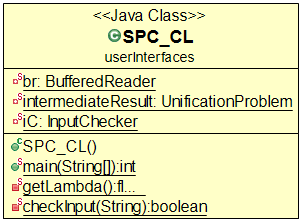
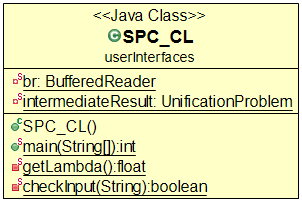
input checker partially implemented.

Changed region(s): [[0.0, 0.0, 1.0, 1.0]]

diff --git a/src/tool/SimpleInputChecker.java b/src/tool/SimpleInputChecker.java
@@ -1,0 +1,98 @@
+/**
+ * 
+ */
+package tool;
+
+/**
+ * Simple InputChecker, only checks for non-null.
+ * @author Jan-Michael Holzinger &amp; Sophie Hofmanninger
+ * @version 1.0
+ */
+public class SimpleInputChecker implements InputChecker {
+
+	/* (non-Javadoc)
+	 * @see tool.InputChecker#check(java.lang.String)
+	 */
+	@Override
+	public boolean check(String s){
+		if(s==null) return false;
+		if(!(checkParenthesis(s))) return false;
+		if(!(checkArguments(s))) return false;
+
+
+		return true;
+
+
+
+	}
+
+
+
+	/**
+	 * Checks if the number of opening and closing parenthesis
+	 * is the same for each side of the equation.
+	 * @param s the String to check
+	 * @return {@code true} if the String passes this check.
+	 */
+	private boolean checkParenthesis(String s) {
+		String[] sub = s.split("=");
+		for(int i=0;i<sub.length;i++) {
+			if(sub[i].chars().filter(ch -> ch == '(').count()!=
+					sub[i].chars().filter(ch -> ch == ')').count())
+				return false;
+		}
+		return true;
+	}
+
+	/**
+	 * Checks if there is no situation like "(," or ",)", i.e.
+	 * that no arguments are missing.
+	 * @param s the String to check
+	 * @return {@code true} if the String passes this check.
+	 */
+	private boolean checkArguments(String s) {
+		while (s.contains("(")||s.contains(",")) {
+			//both occur, "(" first;
+			if(s.contains("(")&&s.contains(",")&&s.indexOf("(")<s.indexOf(",")) {
+				s=s.substring(s.indexOf("("));
+				// Opening parenthesis at the end.
+				if(s.length()==1) return false;
+				// (,
+				if(s.substring(1,2).equals(","))
+					return false;
+				s=s.substring(1);
+				continue;
+			}
+			//both occur, "," first;
+			if(s.contains("(")&&s.contains(",")&&s.indexOf("(")>s.indexOf(",")) {
+				s=s.substring(s.indexOf(","));
+
+				// ,)
+				if(s.substring(1,2).equals(")")||
+						s.substring(1,2).equals(","))
+					return false;
+				s=s.substring(1);
+				continue;
+			}
+			// "(" occurs;
+			if(s.contains("(")&&!s.contains(",")) {
+				s=s.substring(s.indexOf("("));
+				// Opening parenthesis at the end.
+				if(s.length()==1) return false;
+				s=s.substring(1);
+				continue;
+			}
+			// "," occurs;
+			if(!s.contains("(")&&s.contains(",")) {
+				s=s.substring(s.indexOf(","));
+				if(s.substring(1,2).equals(")")||
+						s.substring(1,2).equals(","))
+					return false;
+				s=s.substring(1);
+				continue;
+			}
+
+		}
+		return true;
+	}
+}

diff --git a/src/tool/SimpleInputCheckerTest.java b/src/tool/SimpleInputCheckerTest.java
@@ -1,0 +1,88 @@
+/**
+ * 
+ */
+package tool;
+
+import static org.junit.jupiter.api.Assertions.*;
+
+import org.junit.jupiter.api.AfterEach;
+import org.junit.jupiter.api.BeforeEach;
+import org.junit.jupiter.api.Test;
+
+/**
+ * JUnit tests for SimpleInputChecker.
+ * @author Jan-Michael Holzinger &amp; Sophie Hofmanninger
+ * @version 1.0
+ */
+class SimpleInputCheckerTest {
+	InputChecker inpC;
+	/**
+	 * @throws java.lang.Exception ignored
+	 */
+	@BeforeEach
+	void setUp() throws Exception {
+		inpC = new SimpleInputChecker();
+	}
+
+	/**
+	 * @throws java.lang.Exception ignored
+	 */
+	@AfterEach
+	void tearDown() throws Exception {
+	}
+
+	
+	/**
+	 * Test for null objects.
+	 * Test method for {@link tool.SimpleInputChecker#check(java.lang.String)}.
+	 */
+	@Test
+	void testNull() {
+		assertFalse(inpC.check(null));
+	}
+	
+	/**
+	 * Test for regular input.
+	 * Test method for {@link tool.SimpleInputChecker#check(java.lang.String)}.
+	 */
+	@Test
+	void testRegular() {
+		assertTrue(inpC.check("f(x,y,g(h(k),x))=?l(x,x,g(y),y)"));
+	}
+	
+	/**
+	 * Test for missing parenthesis.
+	 * Test method for {@link tool.SimpleInputChecker#check(java.lang.String)}.
+	 */
+	@Test
+	void testParenthesis() {
+		assertFalse(inpC.check("f(x,y,g h(k),x))=?l(x,x,g(y),y)"));
+	}
+	/**
+	 * Test for missing argument case 1. ",)"
+	 * Test method for {@link tool.SimpleInputChecker#check(java.lang.String)}.
+	 */
+	@Test
+	void testArgument1() {
+		assertFalse(inpC.check("f(x,y,g(h(k),))=?l(x,x,g(y),y)"));
+	}
+	
+	/**
+	 * Test for missing argument case 2. "(,"
+	 * Test method for {@link tool.SimpleInputChecker#check(java.lang.String)}.
+	 */
+	@Test
+	void testArgument2() {
+		assertFalse(inpC.check("f(,y,g(h(k),x))=?l(x,x,g(y),y)"));
+	}
+	
+	/**
+	 * Test for missing argument case 3. ",,"
+	 * Test method for {@link tool.SimpleInputChecker#check(java.lang.String)}.
+	 */
+	@Test
+	void testArgument3() {
+		assertFalse(inpC.check("f(x,y,g(h(k),x))=?l(x,x,,y)"));
+	}
+	
+}

diff --git a/src/userInterfaces/SPC_CL.java b/src/userInterfaces/SPC_CL.java
@@ -7,24 +7,26 @@ import java.io.BufferedReader;
 import java.io.File;
 import java.io.IOException;
 import java.io.InputStreamReader;
+import java.util.ArrayList;
+import java.util.Arrays;
+
 import elements.Function;
-import tool.DummyInputChecker;
-import tool.InputChecker;
+import tool.SimpleInputChecker;
 import tool.Tuple;
 import unificationProblem.InputParser;
 import unificationProblem.UnificationProblem;
 
 /**
  * Use the Algorithm via the command line.
- * @author Jan-Michael Holzinger &amp; Sophie Hofmanninger
+ * @author Jan-Michael Holzinger
  * @version 1.0
  *
  */
+// TODO make it use -f , -e,....
 public class SPC_CL {
 	private static BufferedReader br = 
 			new BufferedReader(new InputStreamReader(System.in));
 	private static UnificationProblem intermediateResult;
-	private static InputChecker iC = new DummyInputChecker();
 	
 	
 	/**
@@ -36,6 +38,7 @@ public class SPC_CL {
 	 */
 	// TODO File not yet supported.
 	public static int main(String[] args) {
+		ArrayList<String> aal = new ArrayList<String>(Arrays.asList(args));
 		// equation, file, lambda, silentOn
 		String equation=null;
 		File f;
@@ -262,9 +265,8 @@ public class SPC_CL {
 	 * @param equation the equation to check.
 	 * @return {@code true} if the equation fits.
 	 */
-	// TODO allow injection
 	private static boolean checkInput(String equation) {
-		return iC.check(equation);
-
+	
+		return new SimpleInputChecker().check(equation);
 	}
 }

diff --git a/src/tool/SPCSet.java b/src/tool/SPCSet.java
@@ -12,7 +12,7 @@ import elements.Element;
  * Class for the sigma/problem/constraint sets.
  * Now the name is also a shortcut for SolvingProximityConstraints.
  * Basically a facade for ArrayList<Tuple<Element>>
- * @author Jan-Michael Holzinger &amp; Sophie Hofmanninger
+ * @author Jan-Michael Holzinger
  * @version 1.1
  */
 public class SPCSet implements TupleSet<Element> {

diff --git a/src/tool/Matrix.java b/src/tool/Matrix.java
@@ -12,7 +12,7 @@ import elements.*;
  * Proximity Matrix class. Representation of a symmetric matrix where
  * the diagonal consists of 1 and all other values must be in [0,1].
  * 
- * @author Jan-Michael Holzinger &amp; Sophie Hofmanninger
+ * @author Sophie Hofmanninger
  * @version 2.0
  */
 public class Matrix {

diff --git a/src/unificationProblem/InputParser.java b/src/unificationProblem/InputParser.java
@@ -15,7 +15,7 @@ import tool.Matrix;
  * [a - t] are function symbols and u is the fist variable. 
  * This means that constants are function symbols with arity zero and [u - z] are variables.
  *
- * @author  Jan-Michael Holzinger &amp; Sophie Hofmanninger
+ * @author  Sophie Hofmanninger
  * @version 3.0
  * 
  */

diff --git a/src/tool/TupleSet.java b/src/tool/TupleSet.java
@@ -7,7 +7,7 @@ import java.util.Collection;
 
 /**
  * Interface for sets, that consist of Tuples of Elements and behave like ArrayLists.
- * @author Jan-Michael Holzinger &amp; Sophie Hofmanninger
+ * @author Jan-Michael Holzinger
  * @version 1.0
  */
 public interface TupleSet<E> {

diff --git a/src/unificationProblem/AlgorithmsJUnit2.java b/src/unificationProblem/AlgorithmsJUnit2.java
@@ -18,7 +18,7 @@ import tool.Tuple;
 
 /**
  * Test Cases for constraint simplification algorithm.
- * @author Jan-Michael Holzinger &amp; Sophie Hofmanninger
+ * @author Sophie Hofmanninger
  * @version 1.0
  */
 class AlgorithmsJUnit2 {

diff --git a/src/unificationProblem/AlgorithmsJUnit1.java b/src/unificationProblem/AlgorithmsJUnit1.java
@@ -10,7 +10,7 @@ import org.junit.jupiter.api.Test;
 
 /**
  * Test Cases for Pre-Unification.
- * @author Jan-Michael Holzinger &amp; Sophie Hofmanninger
+ * @author Jan-Michael Holzinger
  * @version 1.0
  */
 class AlgorithmsJUnit1 {

diff --git a/src/tool/MatrixJUnit.java b/src/tool/MatrixJUnit.java
@@ -17,7 +17,7 @@ import elements.Function;
 /**
  * Test Cases for Matrix.
  * 
- * @author Jan-Michael Holzinger &amp; Sophie Hofmanninger
+ * @author Sophie Hofmanninger
  * @version 2.0
  */
 class MatrixJUnit {

diff --git a/src/tool/InputChecker.java b/src/tool/InputChecker.java
@@ -5,7 +5,7 @@ package tool;
 
 /**
  * Checks correctness of Inputs for the Problem.
- * @author Jan-Michael Holzinger &amp; Sophie Hofmanninger
+ * @author Jan-Michael Holzinger
  * @version 1.0
  *
  */

diff --git a/src/tool/Tuple.java b/src/tool/Tuple.java
@@ -2,7 +2,7 @@ package tool;
 
 /**
  * Generic Tuple Class
- * @author Jan-Michael Holzinger &amp; Sophie Hofmanninger
+ * @author Jan-Michael Holzinger
  * @version 1.0
  */
 public class Tuple<E> {
